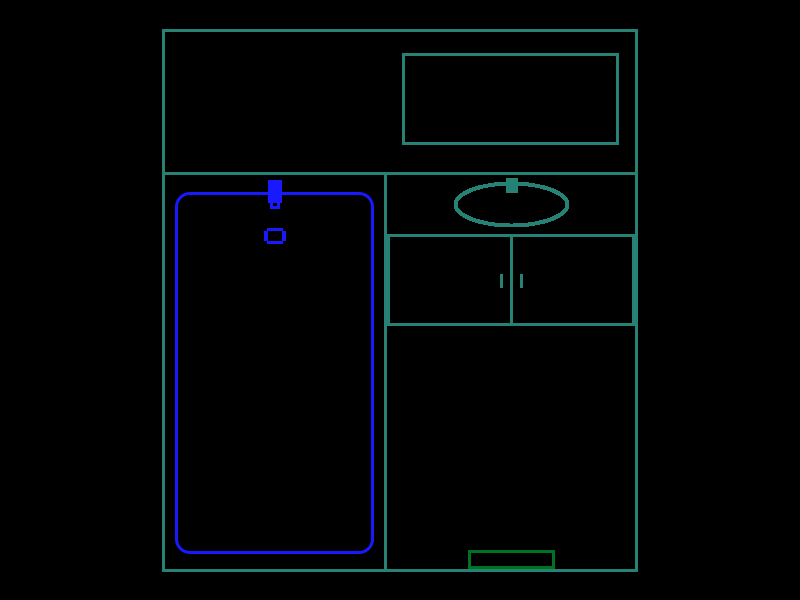
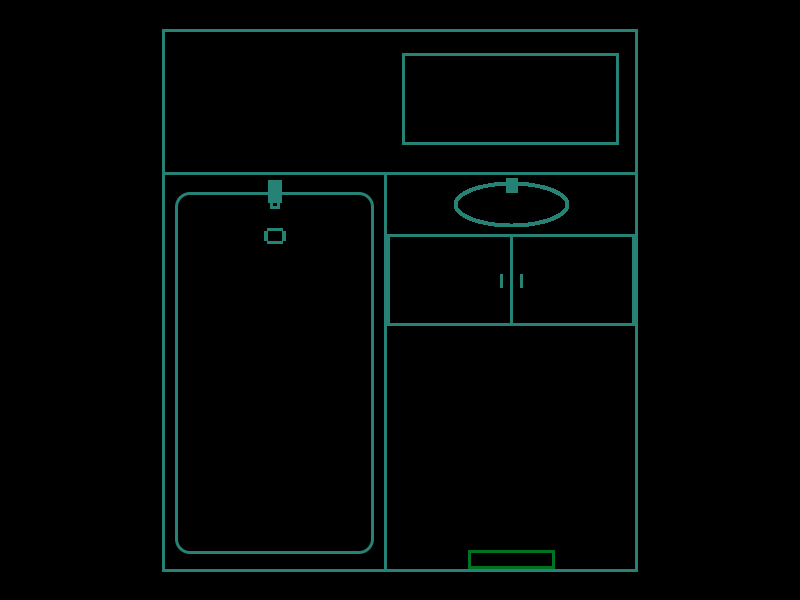
Update of bathroom.png and made bathtub item destroyable

Changed region(s): [[0.2188, 0.3, 0.4688, 0.93], [0.3125, 0.39, 0.375, 0.42]]

diff --git a/src/Bathtub.cpp b/src/Bathtub.cpp
@@ -6,7 +6,7 @@ Bathtub::Bathtub(vector<string> inputVector){
 void Bathtub::init(){
     this->myDialogue = "A tub!";
     this->filepath = "../data/bathtub.png";
-    canBeDestroyed = false;
+    canBeDestroyed = true;
     mySize.x = 199;
     mySize.y = 374;
 
